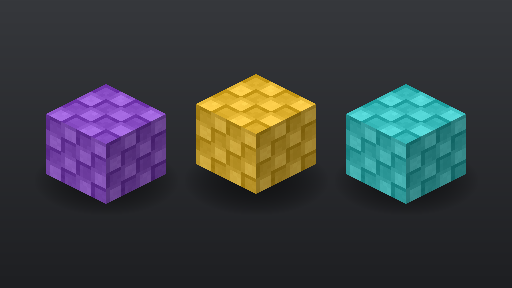
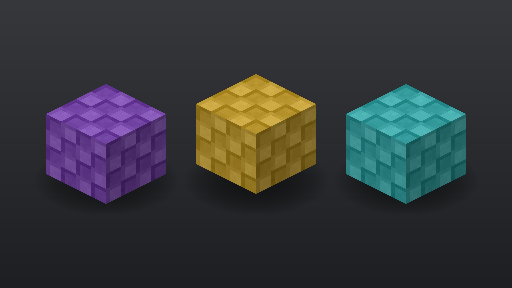
feat(mods): a thumbnail for every shipped Mod
scripts/generate-thumbnails now draws the remaining data Mods and the
Character Mods, whose figure is rendered from their own skin.png with
the avatar's box-UV layout. A test checks every Game and Mod declares one.

Changed region(s): [[0.375, 0.25, 0.625, 0.6875], [0.0625, 0.2812, 0.3438, 0.7188], [0.6562, 0.2812, 0.9062, 0.7188]]

diff --git a/crates/tesserae-mods/src/tests/shared_mods.rs b/crates/tesserae-mods/src/tests/shared_mods.rs
@@ -267,3 +267,20 @@ fn every_shared_plant_resolves_against_the_tags_of_the_mods_loaded_with_it() {
         assert_eq!(t.vines.as_ref().unwrap().plant, "flora:vine");
     }
 }
+
+#[test]
+fn every_shipped_game_and_mod_declares_a_thumbnail() {
+    let scanned = scan(&checkout().join("mods")).unwrap();
+    assert!(scanned.rejected.is_empty(), "{:?}", scanned.rejected);
+    let games = fs::read_dir(checkout().join("games"))
+        .unwrap()
+        .map(|entry| crate::Found::read(&entry.unwrap().path()).unwrap());
+    for found in scanned.mods.into_iter().chain(games) {
+        let thumbnail = found.thumbnail().unwrap();
+        assert!(
+            thumbnail.is_some(),
+            "{} has no thumbnail",
+            found.manifest.id
+        );
+    }
+}

diff --git a/.scratch/2026-11-23-menus-polish/issues/06-thumbnails-for-every-mod.md b/.scratch/2026-11-23-menus-polish/issues/06-thumbnails-for-every-mod.md
@@ -1,6 +1,6 @@
 # 06: A thumbnail for every Game and Mod
 
-Status: ready-for-agent
+Status: done
 
 Blocked by: None (can start immediately)
 
@@ -12,8 +12,15 @@ Spec: [Menus polish](../spec.md).
 
 ## Acceptance criteria
 
-- [ ] Every Game and Mod in the repo declares a valid 512×288 thumbnail
-- [ ] Each Character Mod's thumbnail shows its figure
-- [ ] The Mods step and Mods library show no colour-strip fallback for a shipped Mod
+- [x] Every Game and Mod in the repo declares a valid 512×288 thumbnail
+- [x] Each Character Mod's thumbnail shows its figure
+- [x] The Mods step and Mods library show no colour-strip fallback for a shipped Mod
 
 ## Comments
+
+- Crystals' and Frost's thumbnails changed too: see-through texture pixels (ice,
+  glass, water) now blend over the backdrop instead of drawing as dark holes.
+- Crops shows wheat, carrots and berries as plants on soil and turf; the
+  pumpkin's side texture has a see-through band and read as a black stripe.
+- Every Mod's build hash changed with its `thumbnail` line: local Worlds saved
+  with the old builds won't reopen, and Trust is asked again.
